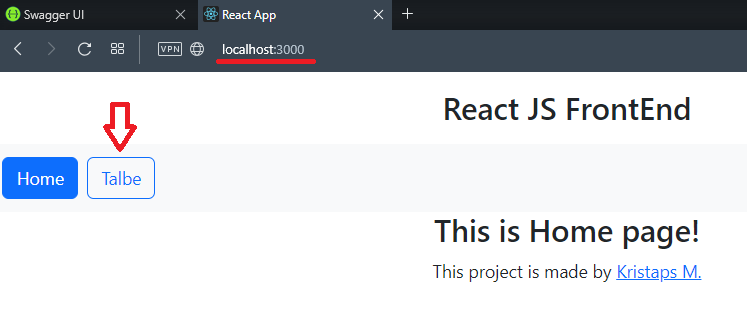
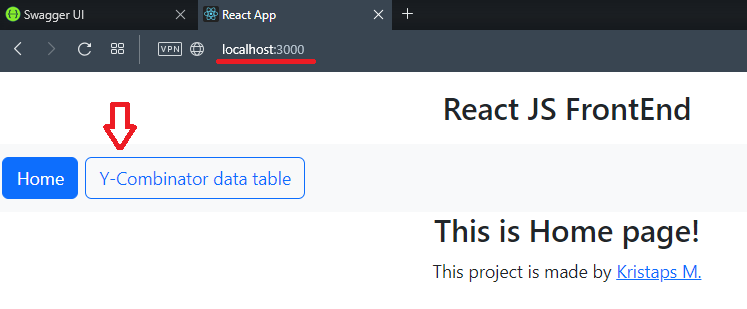
repo name, update pictures asosiated with repo name, Rename talbe to better

diff --git a/UserInterface/react-ui/src/App.js b/UserInterface/react-ui/src/App.js
@@ -47,7 +47,7 @@ function App() {
           </li>
           <li className='nav-item- m-1'>
             <NavLink className="btn btn-light btn-outline-primary" to="/table">
-              Talbe
+              Y-Combinator data table
             </NavLink>
           </li>
         </ul>

diff --git a/README.md b/README.md
@@ -45,9 +45,9 @@ https://dotnet.microsoft.com/en-us/download
 </table>
 
 4. Go to <br>
-   ...\codnity_python
+   ...\ycombinator-data-scraper
    open cmd or powershell type 'python ycombinator_scraper.py'
-   absolute path will be different than mine, but if you cloned repository locally, then 'codnity_python' should be the same as mine. And press enter. :smiley:
+   absolute path will be different than mine, but if you cloned repository locally, then 'ycombinator-data-scraper' should be the same as mine. And press enter. :smiley:
 
 <img src="pictures/run_python.png" alt="create_table.png">
 
@@ -67,10 +67,10 @@ https://dotnet.microsoft.com/en-us/download
 
 <img src="pictures/got_data.png" alt="create_table.png">
 
-9. Go to ...\codnity_python\UserInterface\react-ui <br>
+9. Go to ...\ycombinator-data-scraper\UserInterface\react-ui <br>
    open cmd or powershell type 'npm install' and then 'npm start'
 
-10. Go To ...\codnity_python\API\ycombinator\ycombinator <br>
+10. Go To ...\ycombinator-data-scraper\API\ycombinator\ycombinator <br>
     open cmd or powershell type 'dotnet watch run'
 
 11. Now all data is added to database. You can see it using 2 options:
